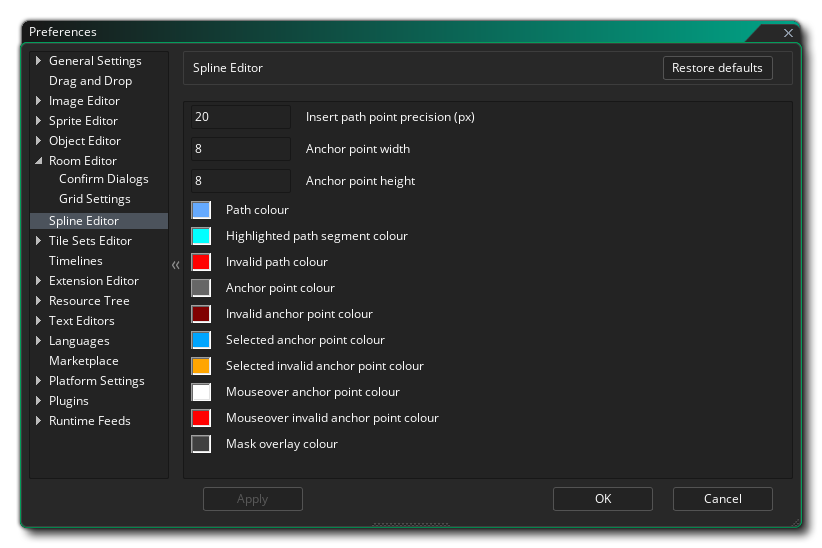
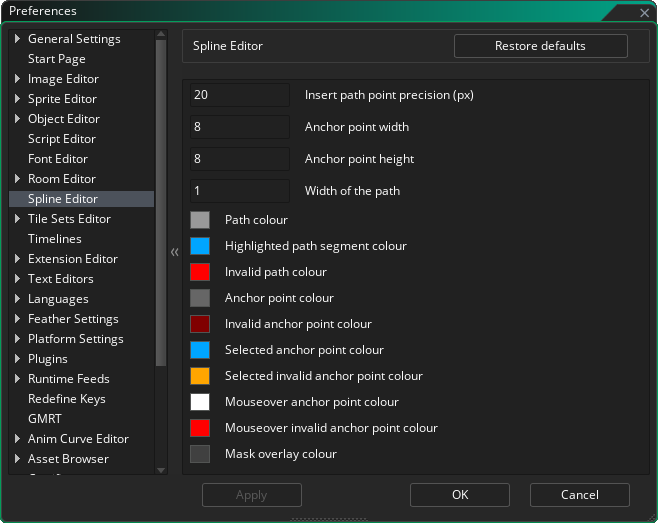
docs(feature): Room Editor option for path line thickness YoYoGames/GameMaker-Bugs#7878
* Updated the screenshot on the Spline Editor Preferences page
* Listed the preference with a description

diff --git a/Manual/contents/Setting_Up_And_Version_Information/IDE_Preferences/Spline_Editor.htm b/Manual/contents/Setting_Up_And_Version_Information/IDE_Preferences/Spline_Editor.htm
@@ -1,27 +1,27 @@
 <?xml version="1.0" encoding="utf-8" ?>
 <!DOCTYPE html>
-<html xmlns="http://www.w3.org/1999/xhtml"><head>
-  <meta http-equiv="Content-Type" content="text/html; charset=utf-8"/>
+<html xmlns="http://www.w3.org/1999/xhtml">
+<head>
+  <meta http-equiv="Content-Type" content="text/html; charset=utf-8" />
   <title>Spline Editor</title>
-  <meta name="generator" content="Adobe RoboHelp 2020"/>
-  <link rel="stylesheet" href="../../assets/css/default.css" type="text/css"/>
+  <meta name="generator" content="Adobe RoboHelp 2022" />
+  <link rel="stylesheet" href="../../assets/css/default.css" type="text/css" />
   <script src="../../assets/scripts/main_script.js" type="module"></script>
-  <meta name="rh-authors" content="Mark Alexander"/>
-  <meta name="topic-comment" content="The Spline Editor Preferences"/>
-  <meta name="rh-index-keywords" content="Prefs - Splines"/>
-  <meta name="search-keywords" content="Spline Prefs,Spline Editor Prefs"/>
+  <meta name="rh-authors" content="Mark Alexander" />
+  <meta name="topic-comment" content="The Spline Editor Preferences" />
+  <meta name="rh-index-keywords" content="Prefs - Splines" />
+  <meta name="search-keywords" content="Spline Prefs,Spline Editor Prefs" />
 </head>
 <body>
   <!--<div class="body-scroll" style="top: 150px;">-->
   <h1>Spline Editor Preferences</h1>
-  <p><img alt="The Spline Editor Preferences" class="center" src="../../assets/Images/Setup_And_Version/Preferences/Spline_Editor_Prefs.png"/>The <strong> <a class="glossterm" data-glossterm="spline" href="#">Spline</a> Editor Preferences</strong> are used
-    primarily to define how the smooth paths in the <a href="../../The_Asset_Editors/Paths.htm">Path Editor</a> look, although they will affect certain other aspects of the <a class="glossterm" data-glossterm="IDE" href="#">IDE</a> (like the Physics Shape
-    Editor). The following options exist:</p>
+  <p><img alt="The Spline Editor Preferences" class="center" src="../../assets/Images/Setup_And_Version/Preferences/Spline_Editor_Prefs.png" />The <strong> <a class="glossterm" data-glossterm="spline" href="#">Spline</a> Editor Preferences</strong> are used primarily to define how the smooth paths in <a data-xref="{title}" href="../../The_Asset_Editors/Paths.htm">The Path Editor</a> look, although they will affect certain other aspects of the <a class="glossterm" data-glossterm="IDE" href="#">IDE</a> (like the Physics Shape Editor). The following options exist:</p>
   <ul class="colour">
-    <li><strong>Insert path point precision (px)</strong>: This sets the precision value (in pixels) for inserting points on a path, ie: the mouse must be within this range to insert the point rather than add a new one. Default is 20px.</li>
-    <li><strong>Anchor point width</strong>: Set the width of the anchor points, in pixels. Default is 8px;</li>
-    <li><strong>Anchor point height</strong>: Set the height of the anchor points, in pixels. Default is 8px;</li>
-    <li><strong>Path colour</strong>: The colour to be used to show the path as you edit it. Default is ( <a class="glossterm" data-glossterm="ARGB" href="#">ARGB</a>) #FFFFFFFF.</li>
+    <li><strong>Insert path point precision (px)</strong>: This sets the precision value (in pixels) for inserting points on a path, i.e.: the mouse must be within this range to insert the point rather than add a new one. Default is 20px.</li>
+    <li><strong>Anchor point width</strong>: Set the width of the anchor points, in pixels. Default is 8px.</li>
+    <li><strong>Anchor point height</strong>: Set the height of the anchor points, in pixels. Default is 8px.</li>
+    <li><strong>Width of the path</strong>: The thickness to be used to draw a path. Default is 1px.</li>
+    <li><strong>Path colour</strong>: The colour to be used to show the path as you edit it. Default is (<a class="glossterm" data-glossterm="ARGB" href="#">ARGB</a>) #FFFFFFFF.</li>
     <li><strong>Highlighted path segment colour</strong>: The colour to be used to highlight any selected path segments. Default is (ARGB) #FFFFFFFF.</li>
     <li><strong>Invalid path colour</strong>: The colour to be used to highlight a path that is not valid. Default is (ARGB) #FF0000FF.</li>
     <li><strong>Anchor points colour</strong>: The colour to be used to draw the path anchor points. Default is (ARGB) #FFC0C0C0.</li>
@@ -34,15 +34,14 @@
   </ul>
   <p> </p>
   <p> </p>
-  <p> </p>
   <div class="footer">
     <div class="buttons">
       <div class="clear">
-        <div style="float:left">Back: <a href="../IDE_Preferences.htm">IDE Preferences</a></div>
-        <div style="float:right">Next: <a href="Tile_Set_Editor_Preferences.htm">Tile Set Editor Preferences</a></div>
+        <div style="float:left">Back: <a data-xref="{title}" href="../IDE_Preferences.htm">IDE Preferences</a></div>
+        <div style="float:right">Next: <a data-xref="{title}" href="Tile_Set_Editor_Preferences.htm">Tile Set Editor Preferences</a></div>
       </div>
     </div>
-    <h5><span data-keyref="Copyright Notice">© Copyright YoYo Games Ltd. 2021 All Rights Reserved</span></h5>
+    <h5><span data-keyref="Copyright Notice">© Copyright YoYo Games Ltd. 2025 All Rights Reserved</span></h5>
   </div>
   <!-- KEYWORDS
 Preferences - Spline Editor
@@ -50,5 +49,5 @@ Preferences - Spline Editor
   <!-- TAGS
 prefs_spline_editor
 -->
-
-</body></html>
+</body>
+</html>
